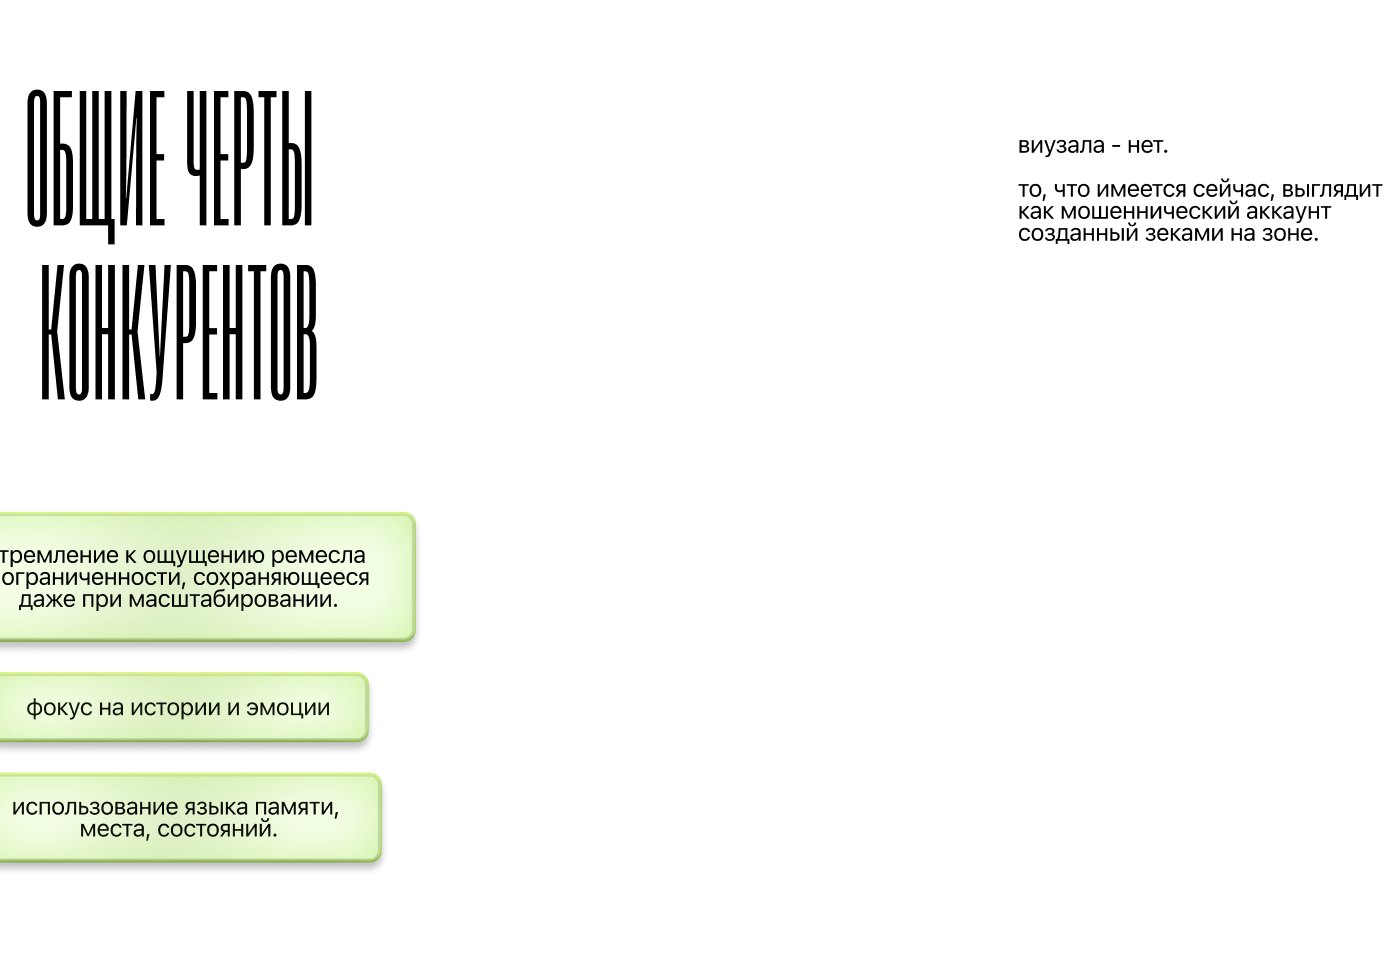
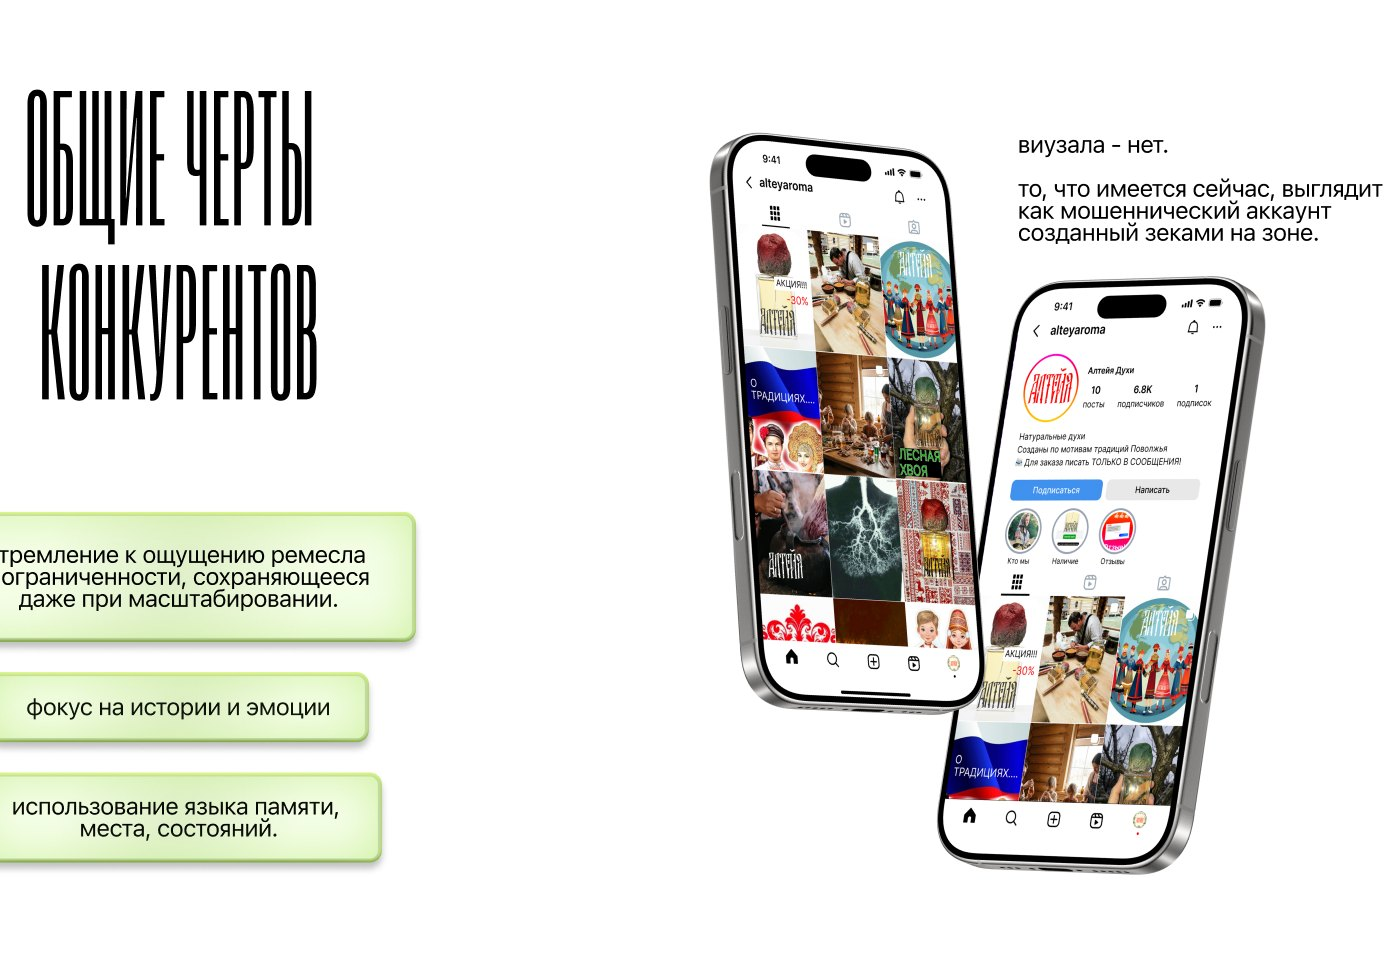
Quoters по шаблону; лента Алтейи перевыгружена после правок в борде

Changed region(s): [[0.4914, 0.125, 0.9214, 0.9375]]

diff --git a/quoters-case.html b/quoters-case.html
@@ -1,0 +1,33 @@
+<!doctype html>
+<html lang="ru">
+<head>
+<meta charset="utf-8">
+<meta name="viewport" content="width=device-width, initial-scale=1">
+<title>Quoters — презентация бренда</title>
+<style>
+  /* Лента в натуральную величину макета (9180 x 760). Окно кейса измеряет её и
+     масштабирует по своей высоте — так же, как у Санька. */
+  html,body{margin:0;padding:0;background:#fff;overflow:hidden;}
+  .lane{position:relative;width:9180px;height:760px;font-size:0;white-space:nowrap;}
+  .lane img{display:inline-block;height:760px;vertical-align:top;border:0;}
+</style>
+</head>
+<body>
+<div class="lane" data-stops="0,429,578,1746,1809,1879,1994,2064,2126,2415,2758,2908,2968,3242,3684,3757,3850,3910,4045,4285,4593,5006,5067,5132,5346,5417,5478,5603,5706,5769,6078,6160,6399,6486,6648,6726,6878,6996,7123,7183,7245,7363,7688,7776,7873,7967,8338,8440,8552,8688,9085,9180">
+  <img src="cases/quoters-ribbon/01.jpg" width="700" height="760" alt="" fetchpriority="high">
+  <img src="cases/quoters-ribbon/02.jpg" width="700" height="760" alt="" fetchpriority="high">
+  <img src="cases/quoters-ribbon/03.jpg" width="700" height="760" alt="" loading="lazy">
+  <img src="cases/quoters-ribbon/04.jpg" width="700" height="760" alt="" loading="lazy">
+  <img src="cases/quoters-ribbon/05.jpg" width="700" height="760" alt="" loading="lazy">
+  <img src="cases/quoters-ribbon/06.jpg" width="700" height="760" alt="" loading="lazy">
+  <img src="cases/quoters-ribbon/07.jpg" width="700" height="760" alt="" loading="lazy">
+  <img src="cases/quoters-ribbon/08.jpg" width="700" height="760" alt="" loading="lazy">
+  <img src="cases/quoters-ribbon/09.jpg" width="700" height="760" alt="" loading="lazy">
+  <img src="cases/quoters-ribbon/10.jpg" width="700" height="760" alt="" loading="lazy">
+  <img src="cases/quoters-ribbon/11.jpg" width="700" height="760" alt="" loading="lazy">
+  <img src="cases/quoters-ribbon/12.jpg" width="700" height="760" alt="" loading="lazy">
+  <img src="cases/quoters-ribbon/13.jpg" width="700" height="760" alt="" loading="lazy">
+  <img src="cases/quoters-ribbon/14.jpg" width="80" height="760" alt="" loading="lazy">
+</div>
+</body>
+</html>

diff --git a/cases.js b/cases.js
@@ -723,7 +723,16 @@ window.CASES_DATA = [
      "Заявки на членство, загрузка кортов, продажи мерча, посещаемость поп-ап событий, упоминания клуба в соцсетях."
     ]
    }
-  ]
+  ],
+  "page": "quoters-case.html",
+  "card": {
+   "year": "2024",
+   "photo": "cases/quoters-ribbon/card-photo.jpg",
+   "taskLead": "Теннисные клубы выглядят стерильно и одинаково.",
+   "taskBody": "Белые стены, логотип с ракеткой, форма из каталога — такая айдентика не создаёт ни сообщества, ни причины выбрать именно этот клуб. Цель проекта — превратить историю здания в главное отличие, создать премиальный образ, в котором теннис воспринимается как культура и образ жизни, и сформировать сообщество, которое носит символику клуба за его пределами.",
+   "solLead": "История здания как главный символ.",
+   "solBody": "Quoters расположен в бывшей картинной галерее на утёсе у моря, корт — во внутреннем дворе. Палитра пришла оттуда же: глубокий индиго был цветом стен галереи, известной сумеречными пейзажами. Айдентика соединяет наследие, природные мотивы и динамику тенниса, держит натуральные цвета и лаконичную графику и переносится на пространство, форму и мерч."
+  }
  },
  {
   "t": "Esnace",

diff --git a/alteya-case.html b/alteya-case.html
@@ -5,15 +5,15 @@
 <meta name="viewport" content="width=device-width, initial-scale=1">
 <title>Алтейя — презентация бренда</title>
 <style>
-  /* Лента выложена в натуральную величину макета (11239 x 480). Окно кейса само
-     измеряет эту ширину и масштабирует кадр по своей высоте — как у Санька. */
+  /* Лента в натуральную величину макета (11239 x 480). Окно кейса измеряет её и
+     масштабирует по своей высоте — так же, как у Санька. */
   html,body{margin:0;padding:0;background:#fff;overflow:hidden;}
   .lane{position:relative;width:11239px;height:480px;font-size:0;white-space:nowrap;}
   .lane img{display:inline-block;height:480px;vertical-align:top;border:0;}
 </style>
 </head>
 <body>
-<div class="lane" data-stops="0,493,854,1214,1392,1549,1609,1796,2011,2082,2447,2767,2848,3505,3688,4062,4246,4311,4747,5246,5627,5720,6244,6510,6630,7303,7475,7620,7805,8237,8541,8775,8845,8922,9015,9241,9402,9571,9840,10329,10671,10829,11193,11239">
+<div class="lane" data-stops="0,495,851,1214,1392,1549,1609,1796,2012,2369,2739,2846,3579,3708,3821,3964,4157,4311,4747,5246,5627,5687,6244,6354,6510,6628,7267,7475,7620,7801,8228,8543,8771,8845,8920,9007,9241,9402,9571,9839,10329,10671,10829,11192,11239">
   <img src="cases/alteya-ribbon/01.jpg" width="700" height="480" alt="" fetchpriority="high">
   <img src="cases/alteya-ribbon/02.jpg" width="700" height="480" alt="" fetchpriority="high">
   <img src="cases/alteya-ribbon/03.jpg" width="700" height="480" alt="" loading="lazy">

diff --git a/index.html b/index.html
@@ -10,7 +10,7 @@
 <link rel="preconnect" href="https://fonts.gstatic.com" crossorigin>
 <link href="https://fonts.googleapis.com/css2?family=Inter:wght@400;500;600&display=swap&subset=cyrillic" rel="stylesheet">
 <link rel="preload" href="fonts/ak.woff2" as="font" type="font/woff2" crossorigin>
-<script src="cases.js?v=012350"></script>
+<script src="cases.js?v=020002"></script>
 <script src="https://cdn.jsdelivr.net/npm/lenis@1.3.21/dist/lenis.min.js"></script>
 <script src="https://cdn.jsdelivr.net/npm/gsap@3.13.0/dist/gsap.min.js"></script>
 <script src="https://cdn.jsdelivr.net/npm/gsap@3.13.0/dist/ScrollTrigger.min.js"></script>
@@ -719,7 +719,7 @@
     </div>
 
     <div class="tailroom"></div>
-    <span id="buildStamp" style="display:none">BUILD 01.10 23:50</span>
+    <span id="buildStamp" style="display:none">BUILD 02.10 00:02</span>
   </section>
 
 </main>

diff --git a/tools/build_ribbon.py b/tools/build_ribbon.py
@@ -1,0 +1,119 @@
+#!/usr/bin/env python3
+# -*- coding: utf-8 -*-
+"""Собирает горизонтальную ленту кейса из выгруженного борда Figma.
+
+    python3 tools/build_ribbon.py <борд.png> <ширина> <высота> <слаг> "<Заголовок>"
+
+Делает три вещи:
+  * режет борд на плитки по 700 px макета и кладёт их в cases/<слаг>-ribbon/;
+  * пишет <слаг>-case.html — ленту в натуральную величину макета, которую окно
+    кейса само измеряет и масштабирует по своей высоте;
+  * считает остановки для листания: координаты колонок, где по вертикали нет
+    содержимого. Шаг листания заканчивается в такой колонке, поэтому текст не
+    обрезается ни справа, ни слева.
+"""
+import os, sys, math, json
+import numpy as np
+from PIL import Image
+
+Image.MAX_IMAGE_PIXELS = None
+TILE = 700
+
+
+def tiles(src, outdir, bw, bh):
+    im = Image.open(src).convert('RGB')
+    s = im.width / bw
+    os.makedirs(outdir, exist_ok=True)
+    for f in os.listdir(outdir):
+        if f.endswith('.jpg') and f[0].isdigit():
+            os.remove(os.path.join(outdir, f))
+    n = math.ceil(bw / TILE)
+    parts = []
+    for i in range(n):
+        x0, x1 = i * TILE, min(bw, (i + 1) * TILE)
+        im.crop((round(x0 * s), 0, round(x1 * s), im.height)).save(
+            os.path.join(outdir, '%02d.jpg' % (i + 1)),
+            quality=86, optimize=True, progressive=True)
+        parts.append(('%02d.jpg' % (i + 1), x1 - x0))
+    assert sum(w for _, w in parts) == bw, 'плитки не сходятся в ширину борда'
+    return parts
+
+
+def gutters(src, bw, pct, mingap, minrun):
+    """Колонки, в которых яркость по вертикали почти не меняется, — там пусто."""
+    g = Image.open(src).convert('L')
+    a = np.asarray(g.resize((bw, 240), Image.BILINEAR), dtype=np.float32)
+    std = a.std(axis=0)
+    empty = std < max(1.5, float(np.percentile(std, pct)) + 1.0)
+    runs, i = [], 0
+    while i < bw:
+        if empty[i]:
+            j = i
+            while j < bw and empty[j]:
+                j += 1
+            if j - i >= minrun:
+                runs.append((i, j))
+            i = j
+        else:
+            i += 1
+    pts = sorted({0} | {int((x + y) // 2) for x, y in runs} | {bw})
+    out = [pts[0]]
+    for p in pts[1:]:
+        if p - out[-1] >= mingap:
+            out.append(p)
+    if out[-1] != bw:
+        out.append(bw)
+    return out
+
+
+def stops(src, bw):
+    # чистые промежутки плюс более чуткий второй уровень — чтобы шаг всегда
+    # находил куда встать даже там, где блоки идут сплошняком
+    allp = sorted(set(gutters(src, bw, 8, 90, 12)) | set(gutters(src, bw, 30, 60, 5)))
+    out = [allp[0]]
+    for p in allp[1:]:
+        if p - out[-1] >= 60:
+            out.append(p)
+    if out[-1] != bw:
+        out.append(bw)
+    return out
+
+
+def main():
+    src, bw, bh, slug, title = sys.argv[1], int(sys.argv[2]), int(sys.argv[3]), sys.argv[4], sys.argv[5]
+    outdir = 'cases/%s-ribbon' % slug
+    parts = tiles(src, outdir, bw, bh)
+    st = stops(src, bw)
+    imgs = '\n'.join(
+        '  <img src="%s/%s" width="%d" height="%d" alt="" %s>' %
+        (outdir, fn, w, bh, 'fetchpriority="high"' if i < 2 else 'loading="lazy"')
+        for i, (fn, w) in enumerate(parts))
+    open('%s-case.html' % slug, 'w', encoding='utf-8').write("""<!doctype html>
+<html lang="ru">
+<head>
+<meta charset="utf-8">
+<meta name="viewport" content="width=device-width, initial-scale=1">
+<title>%s</title>
+<style>
+  /* Лента в натуральную величину макета (%d x %d). Окно кейса измеряет её и
+     масштабирует по своей высоте — так же, как у Санька. */
+  html,body{margin:0;padding:0;background:#fff;overflow:hidden;}
+  .lane{position:relative;width:%dpx;height:%dpx;font-size:0;white-space:nowrap;}
+  .lane img{display:inline-block;height:%dpx;vertical-align:top;border:0;}
+</style>
+</head>
+<body>
+<div class="lane" data-stops="%s">
+%s
+</div>
+</body>
+</html>
+""" % (title, bw, bh, bw, bh, bh, ','.join(map(str, st)), imgs))
+    size = sum(os.path.getsize(os.path.join(outdir, fn)) for fn, _ in parts)
+    d = np.diff(st)
+    print('%s-case.html: %d плиток, %.1f МБ, лента %dx%d, остановок %d (шаг мед %d, макс %d)'
+          % (slug, len(parts), size / 1e6, bw, bh, len(st), int(np.median(d)), int(d.max())))
+
+
+if __name__ == '__main__':
+    main()
